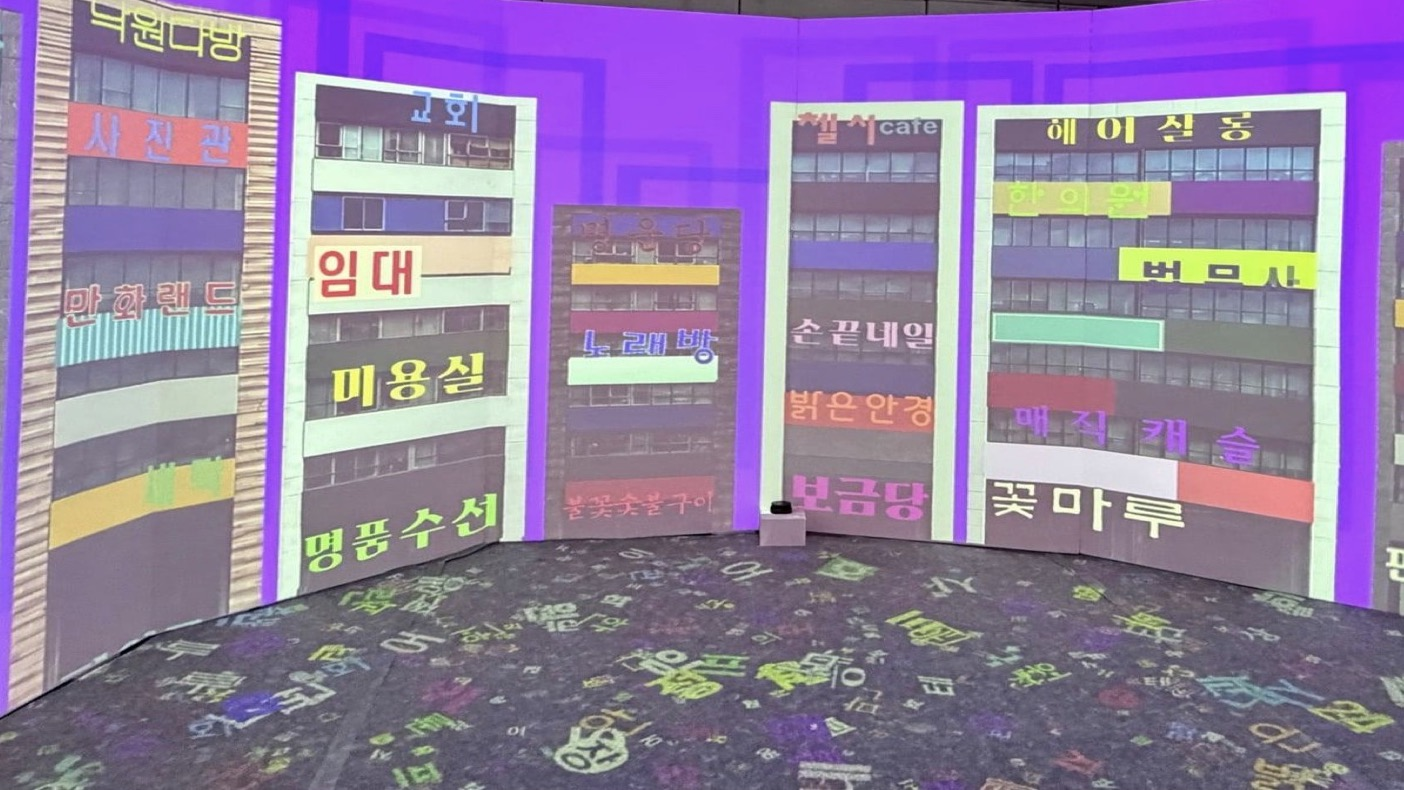
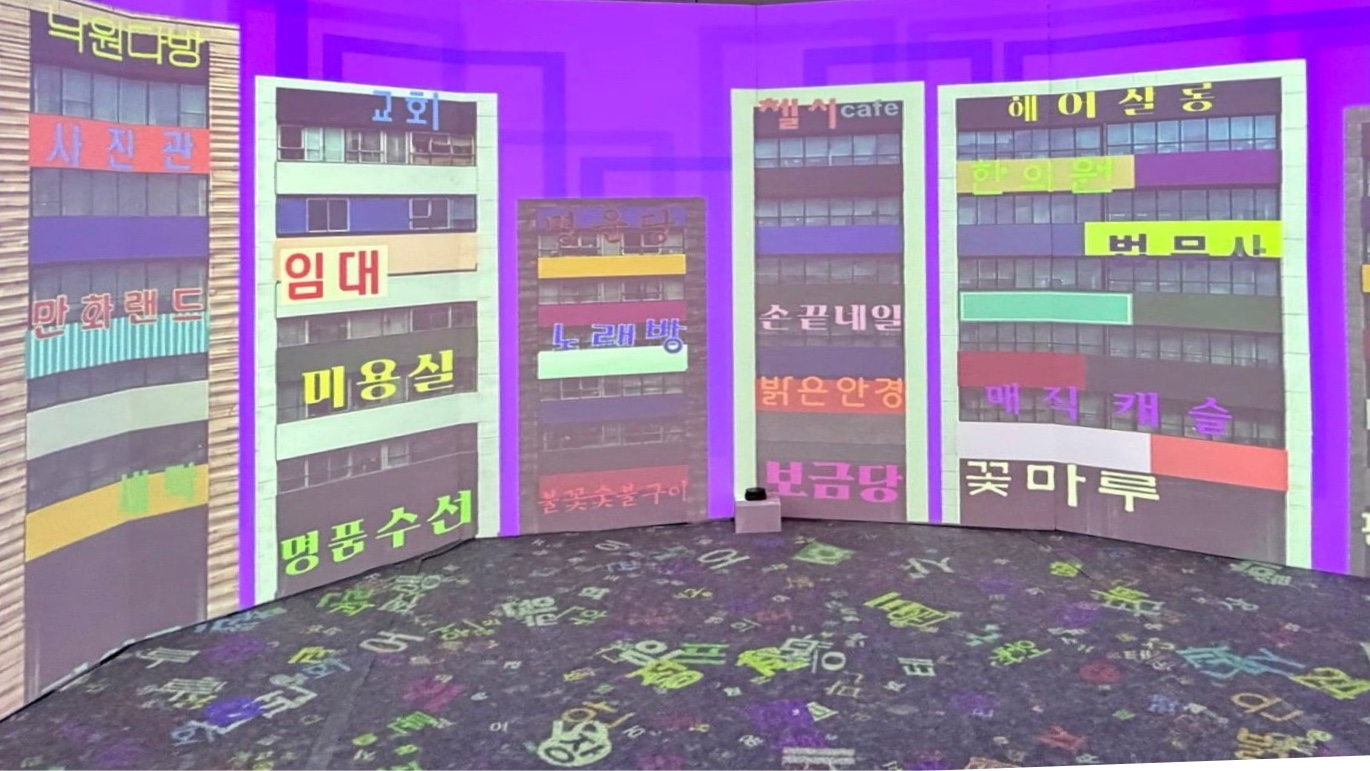
무제: straighten hero so the buildings stand vertical

diff --git a/index.html b/index.html
@@ -340,7 +340,7 @@ footer h2{font-size:clamp(40px,6vw,72px);font-weight:700;letter-spacing:-.035em;
   <nav class="reel">
     <div class="col">
       <a href="#nakhwa" style="order:1"><img src="img/nakhwa/hero.jpg?v=2" alt=""><span>낙화원 落花願</span></a>
-      <a href="#muje" style="order:3"><img src="img/muje/hero.jpg?v=3" alt=""><span>무제 無諸</span></a>
+      <a href="#muje" style="order:3"><img src="img/muje/hero.jpg?v=4" alt=""><span>무제 無諸</span></a>
     </div>
     <div class="col">
       <a href="#jigu" style="order:2"><img src="img/works/jigu-70th.jpg" alt=""><span>지구화학 70주년 캠페인</span></a>
@@ -382,7 +382,7 @@ footer h2{font-size:clamp(40px,6vw,72px);font-weight:700;letter-spacing:-.035em;
       <h2 class="label">Planning</h2>
       <ul>
         <li><a class="row" href="#nakhwa" data-img="img/nakhwa/hero.jpg?v=2"><b>낙화원 落花願</b><span>Interactive media art</span><span>2026</span><img src="img/nakhwa/hero.jpg?v=2" alt="" loading="lazy"></a></li>
-        <li><a class="row" href="#muje" data-img="img/muje/hero.jpg?v=3"><b>무제 無諸</b><span>Interactive media art</span><span>2026</span><img src="img/muje/hero.jpg?v=3" alt="" loading="lazy"></a></li>
+        <li><a class="row" href="#muje" data-img="img/muje/hero.jpg?v=4"><b>무제 無諸</b><span>Interactive media art</span><span>2026</span><img src="img/muje/hero.jpg?v=4" alt="" loading="lazy"></a></li>
         <li><a class="row" href="#jigu" data-img="img/works/jigu-70th.jpg"><b>지구화학 70주년 캠페인</b><span>Campaign planning</span><span>2026</span><img src="img/works/jigu-70th.jpg" alt="" loading="lazy"></a></li>
       </ul>
       <h2 class="label">Poster</h2>
@@ -728,7 +728,7 @@ footer h2{font-size:clamp(40px,6vw,72px);font-weight:700;letter-spacing:-.035em;
   </div>
   <div class="sp">
     <div class="side">
-      <div class="media"><img src="img/muje/hero.jpg?v=3" alt="무제 전시 현장"></div>
+      <div class="media"><img src="img/muje/hero.jpg?v=4" alt="무제 전시 현장"></div>
       <p class="cap">전시 현장 · 간판 버전, 360° 벽면과 바닥 만다라</p>
       <div class="media nk-gap"><img class="jg-hero" src="img/muje/plan/01.jpg" alt="무제 결과발표 자료"></div>
       <div class="deck swap"><img src="img/muje/plan/01-t.jpg" data-full="img/muje/plan/01.jpg" alt="결과발표 1p" loading="lazy"><img src="img/muje/plan/02-t.jpg" data-full="img/muje/plan/02.jpg" alt="결과발표 2p" loading="lazy"><img src="img/muje/plan/03-t.jpg" data-full="img/muje/plan/03.jpg" alt="결과발표 3p" loading="lazy"><img src="img/muje/plan/04-t.jpg" data-full="img/muje/plan/04.jpg" alt="결과발표 4p" loading="lazy"><img src="img/muje/plan/05-t.jpg" data-full="img/muje/plan/05.jpg" alt="결과발표 5p" loading="lazy"><img src="img/muje/plan/06-t.jpg" data-full="img/muje/plan/06.jpg" alt="결과발표 6p" loading="lazy"><img src="img/muje/plan/07-t.jpg" data-full="img/muje/plan/07.jpg" alt="결과발표 7p" loading="lazy"><img src="img/muje/plan/08-t.jpg" data-full="img/muje/plan/08.jpg" alt="결과발표 8p" loading="lazy"><img src="img/muje/plan/09-t.jpg" data-full="img/muje/plan/09.jpg" alt="결과발표 9p" loading="lazy"><img src="img/muje/plan/10-t.jpg" data-full="img/muje/plan/10.jpg" alt="결과발표 10p" loading="lazy"><img src="img/muje/plan/11-t.jpg" data-full="img/muje/plan/11.jpg" alt="결과발표 11p" loading="lazy"><img src="img/muje/plan/12-t.jpg" data-full="img/muje/plan/12.jpg" alt="결과발표 12p" loading="lazy"><img src="img/muje/plan/13-t.jpg" data-full="img/muje/plan/13.jpg" alt="결과발표 13p" loading="lazy"><img src="img/muje/plan/14-t.jpg" data-full="img/muje/plan/14.jpg" alt="결과발표 14p" loading="lazy"><img src="img/muje/plan/15-t.jpg" data-full="img/muje/plan/15.jpg" alt="결과발표 15p" loading="lazy"><img src="img/muje/plan/16-t.jpg" data-full="img/muje/plan/16.jpg" alt="결과발표 16p" loading="lazy"><img src="img/muje/plan/17-t.jpg" data-full="img/muje/plan/17.jpg" alt="결과발표 17p" loading="lazy"><img src="img/muje/plan/18-t.jpg" data-full="img/muje/plan/18.jpg" alt="결과발표 18p" loading="lazy"><img src="img/muje/plan/19-t.jpg" data-full="img/muje/plan/19.jpg" alt="결과발표 19p" loading="lazy"><img src="img/muje/plan/20-t.jpg" data-full="img/muje/plan/20.jpg" alt="결과발표 20p" loading="lazy"><img src="img/muje/plan/21-t.jpg" data-full="img/muje/plan/21.jpg" alt="결과발표 21p" loading="lazy"><img src="img/muje/plan/22-t.jpg" data-full="img/muje/plan/22.jpg" alt="결과발표 22p" loading="lazy"><img src="img/muje/plan/23-t.jpg" data-full="img/muje/plan/23.jpg" alt="결과발표 23p" loading="lazy"><img src="img/muje/plan/24-t.jpg" data-full="img/muje/plan/24.jpg" alt="결과발표 24p" loading="lazy"></div>
